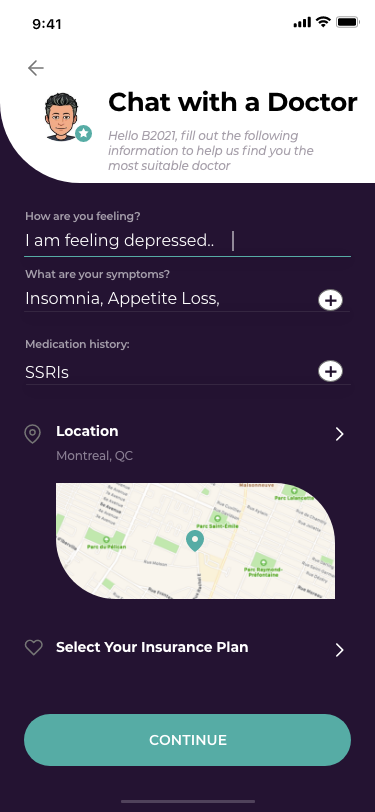
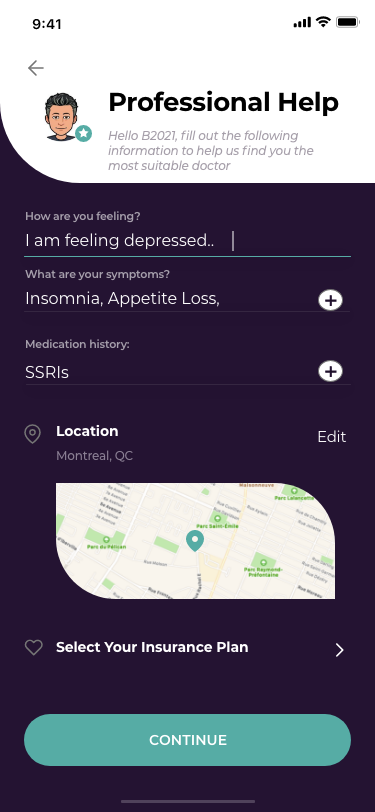
changes

Changed region(s): [[0.2933, 0.0924, 0.9387, 0.1539], [0.8507, 0.5234, 0.9093, 0.5542]]

diff --git a/uxresearch1.html b/uxresearch1.html
@@ -557,8 +557,8 @@
                     <div class="row">
                         <div class="about-center section-title text-center">
                             <h2>User Journeys</h2>
-                                <p class="lead"> Having taken into consideration the 5 violations identified in the Heuristic evaluation, I modified the design as shown in the screenshots below. The "Find a Clinic" and "Chat with a Doctor" functions 
-                                    have been combined into 1 function to enhance the information architecture of the app, as well as to decrease the cognitive workload of the users. This modification was made following a discussion with the UX evaluators 
+                                <p class="lead"> Having taken the 5 violations identified in the Heuristic evaluation into consideration, I modified the user journey. The "Find a Clinic" and "Chat with a Doctor" functions 
+                                    have been combined into 1 function ("Professional Help") to enhance the clarity of the information architecture, as well as to decrease the cognitive workload of the users. This modification was made following a discussion with the UX evaluators 
                                     who expressed confusion about having to choose between the two functions– as one was not certain whether their conditions would be more appropriately tended via an in-person clinic visit or by chatting with a doctor over the app. 
                                     The modified design factors in the information filled out by the user in the "Chat with a doctor" interface, whereby provide a suggestion about the next step.
                                 </p>
